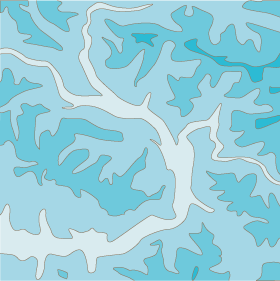
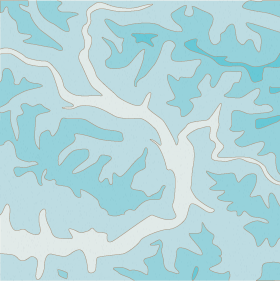
Desat contours, arrange sidebar

diff --git a/_includes/sidebar.html b/_includes/sidebar.html
@@ -7,19 +7,9 @@
   </p>
   <hr class="sidebar-hr">
   <div class="social-media">
-    {% if site.email %}
-    <a href="mailto:{{ site.email }}">{{ site.email }}</a>
-    {% endif %}
-    </br>
-    {% if site.github_username %}
-      {% include icon-github.html username=site.github_username %}
-    {% endif %}
-    </br>
-
-    {% if site.twitter_username %}
-      {% include icon-twitter.html username=site.twitter_username %}
-    {% endif %}
-
-    <p class="rss-subscribe">subscribe <a href="{{ "/feed.xml" | relative_url }}">via RSS</a></p>
+    <a class="social-media--link" href="mailto:{{ site.email }}"><i class="fa fa-envelope"></i> <span>{{ site.email }}</span></a>
+    <a class="social-media--link" href="https://github.com/{{ site.github_username }}"><i class="fa fa-github"></i> <span>{{ site.github_username }}</span></a>
+    <a class="social-media--link" href="https://twitter.com/{{ site.twitter_username }}"><i class="fa fa-twitter"></i> <span>{{ site.twitter_username }}</span></a>
+    <a class="rss-subscribe social-media--link" href="{{ "/feed.xml" | relative_url }}"><i class="fa fa-rss"></i> <span>RSS feed</span></a>
   </div>
 </sidebar>

diff --git a/_includes/head.html b/_includes/head.html
@@ -7,7 +7,8 @@
   <meta name="description" content="{{ page.excerpt | default: site.description | strip_html | normalize_whitespace | truncate: 160 | escape }}">
 
   <link rel="stylesheet" href="{{ "/assets/main.css" | relative_url }}">
-  <link href="https://fonts.googleapis.com/css?family=Slabo+27px" rel="stylesheet">
+  <link href="https://fonts.googleapis.com/css?family=Slabo+27px" rel="stylesheet" />
+  <link href="https://maxcdn.bootstrapcdn.com/font-awesome/4.7.0/css/font-awesome.min.css" rel="stylesheet" />
   <link rel="canonical" href="{{ page.url | replace:'index.html','' | absolute_url }}">
   <link rel="alternate" type="application/rss+xml" title="{{ site.title | escape }}" href="{{ "/feed.xml" | relative_url }}">
 

diff --git a/_sass/sidebar.scss b/_sass/sidebar.scss
@@ -9,3 +9,28 @@ sidebar {
 .sidebar-hr {
   margin-bottom: 20px;
 }
+
+.social-media {
+  align-items: flex-start;
+  display: flex;
+  flex-direction: column;
+}
+
+.social-media--link,
+.social-media--link:visited {
+  color: $text-color;
+}
+
+.social-media--link i {
+  color: $grey-color;
+}
+
+.social-media--link:hover,
+.social-media--link:active {
+  text-decoration: none;
+}
+
+.social-media--link span:hover,
+.social-media--link span:active {
+  text-decoration: underline;
+}

diff --git a/assets/main.scss b/assets/main.scss
@@ -21,7 +21,6 @@ $medium-brown:     #8d7a64;
 $light-brown:      #f9f6f1;
 
 $site-background:  url('texture.png') repeat;
-$brand-color:      #2a7ae2;
 
 $grey-color:       #828282;
 $grey-color-light: lighten($grey-color, 40%);
